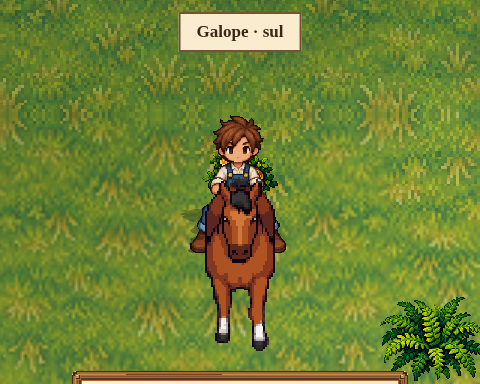
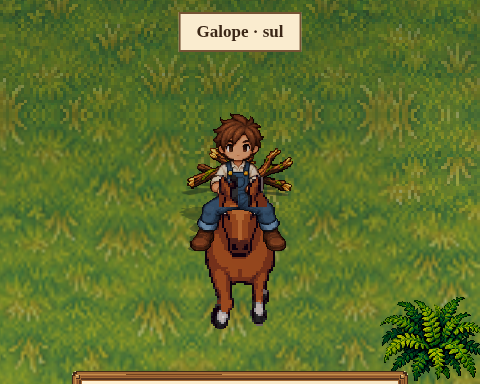
Sobrepõe apenas as orelhas do cavalo na vista frontal

diff --git a/src/horse-mount.ts b/src/horse-mount.ts
@@ -12,6 +12,15 @@ const SADDLE:Record<CharacterDirection,number>={down:60,up:30,left:27,right:27,'
 /** Vindo na direção da câmera, a cabeça do cavalo fica na frente do cavaleiro. */
 export const HORSE_IN_FRONT:readonly CharacterDirection[]=['down'];
 const RUN_DIRECTIONS=['south-west','north','west','north-east','east','south','south-east','north-west'] as const;
+// Início de cada orelha no quadro frontal de 192 px. O cavalo se inclina
+// durante a passada, então o recorte acompanha o quadro do próprio atlas.
+const FRONT_EARS:Record<number,readonly [number,number,number,number]>={
+ 0:[85,52,99,52],
+ 1:[83,69,98,69], 2:[85,69,100,69], 3:[86,69,102,69], 4:[89,69,105,69],
+ 5:[89,69,104,69], 6:[90,69,104,69], 7:[85,69,103,69], 8:[84,69,100,69],
+ 112:[85,54,100,53], 113:[85,58,100,58], 114:[85,60,100,60], 115:[85,60,100,60],
+ 116:[85,60,100,60], 117:[85,61,100,61], 118:[85,60,100,60], 119:[85,60,100,60],
+};
 const RUN_BY_DIRECTION:Record<CharacterDirection,typeof RUN_DIRECTIONS[number]>={down:'south',up:'north',left:'west',right:'east','down-left':'south-west','down-right':'south-east','up-left':'north-west','up-right':'north-east'};
 export {RIDER_ART,RIDER_ORDER,riderSheet} from './data/horse-rider-art';
 export const riderTexture=(character:string)=>`horse-rider-${character}`;
@@ -32,6 +41,7 @@ export class HorseMount{
  readonly horse:Phaser.GameObjects.Sprite;
  /** Personagem desenhado montado (o sprite do jogador fica escondido enquanto monta). */
  readonly rider?:Phaser.GameObjects.Sprite;
+ private readonly frontEars?:readonly [Phaser.GameObjects.Image,Phaser.GameObjects.Image];
  get combined(){return !!this.rider;}
  /** Pernas, sela e rédeas desenhadas por código, entre o cavalo e o cavaleiro. */
  readonly tack:Phaser.GameObjects.Graphics;
@@ -43,6 +53,11 @@ export class HorseMount{
   if(RIDER_ART.includes(character)&&scene.textures.exists(riderTexture(character))){
    this.rider=scene.add.sprite(x,y,riderTexture(character),0).setData('mount',true);
    this.placeRider(x,y,'down');
+   if(character==='farmer-male'){
+    const newEar=()=>scene.add.image(x,y,animalTexture('horse'),0)
+     .setOrigin(.5,.5+art.foot/art.cell).setScale(art.scale).setData('mount',true).setVisible(false);
+    this.frontEars=[newEar(),newEar()];
+   }
   }
  }
  private placeRider(x:number,y:number,direction:CharacterDirection):void{
@@ -63,14 +78,23 @@ export class HorseMount{
    // O lombo sobe e desce no passo e na corrida; o personagem vai junto.
    const lift=Math.max(-6,Math.min(6,(riderLift as number[])[frame]??0));
    this.placeRider(x,y-lift*ANIMAL_ART.horse.scale,direction);
-   // De frente, as orelhas e a crina ficam entre as pernas do novo cavaleiro.
-   this.rider.setDepth(this.character==='farmer-male'&&direction==='down'?y-.75:y);
+   this.rider.setDepth(y);
+   this.updateFrontEars(x,y,direction,frame);
    this.tack.clear();return 0;
   }
   // Balanço do passo (galope balança mais): o cavaleiro sobe e desce junto com o cavalo.
   const bob=moving?Math.round(Math.abs(Math.sin(this.distance/(galloping?9:14)*Math.PI))*(galloping?2.5:1.2)):0;
   const hip=y-SADDLE[direction]-bob;this.drawTack(x,hip,direction,frame);
   return SADDLE[direction]+bob;
+ }
+ private updateFrontEars(x:number,y:number,direction:CharacterDirection,frame:number):void{
+  if(!this.frontEars)return;
+  const region=direction==='down'?FRONT_EARS[frame]:undefined;
+  for(const [i,ear] of this.frontEars.entries()){
+   ear.setVisible(!!region&&this.horse.visible);
+   if(region)ear.setFrame(frame).setOrigin(this.horse.originX,this.horse.originY)
+    .setPosition(x,y).setDepth(y+.01).setCrop(region[i*2],region[i*2+1],10,16);
+  }
  }
  /** Sela, pernas de jeans com botas caindo pela lateral e rédeas até a cabeça do cavalo. */
  private drawTack(x:number,hip:number,d:CharacterDirection,frame:number):void{
@@ -89,7 +113,9 @@ export class HorseMount{
    g.lineStyle(1,rein,.9);if(side){g.beginPath();g.moveTo(x+dir*5,handY);g.lineTo(hx-dir*3,hy);g.strokePath();}
    else{for(const s of [-1,1]){g.beginPath();g.moveTo(x+s*5,handY);g.lineTo(hx+s*3,hy);g.strokePath();}}}
  }
- setVisible(v:boolean){this.horse.setVisible(v);this.rider?.setVisible(v);this.tack.setVisible(v&&!this.rider);}
- destroy(){this.horse.destroy();this.rider?.destroy();this.tack.destroy();}
+ setVisible(v:boolean){this.horse.setVisible(v);this.rider?.setVisible(v);this.tack.setVisible(v&&!this.rider);
+  for(const ear of this.frontEars??[])ear.setVisible(v&&ear.isCropped&&Number(this.rider?.frame.name)===0);
+ }
+ destroy(){this.horse.destroy();this.rider?.destroy();this.tack.destroy();for(const ear of this.frontEars??[])ear.destroy();}
 }
 export {CHARACTER_DIRECTIONS};
